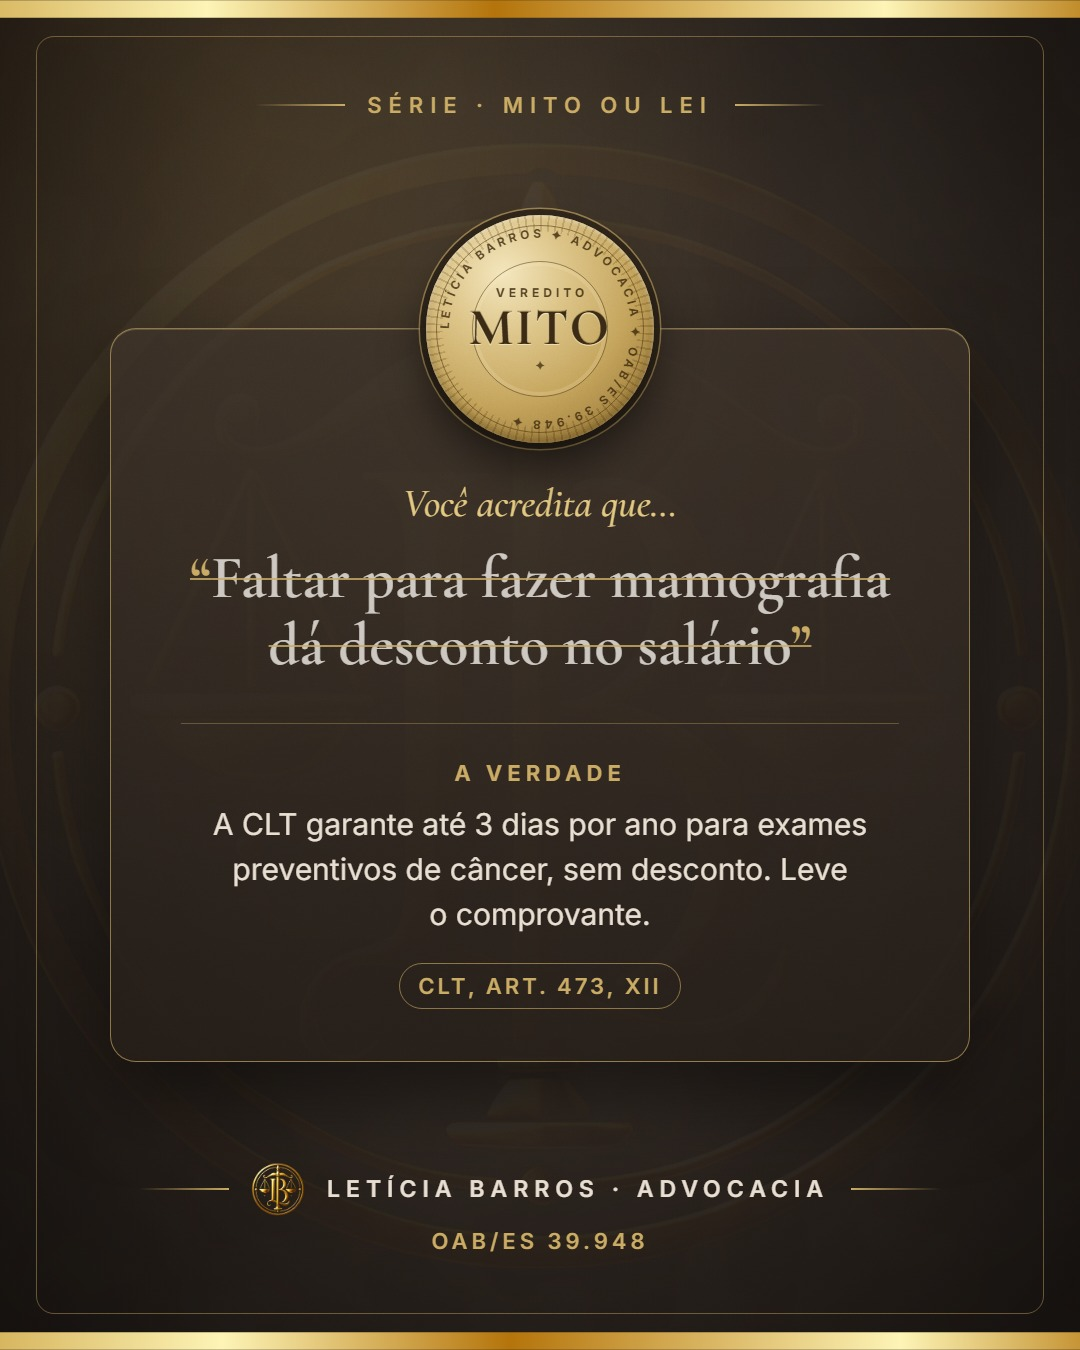
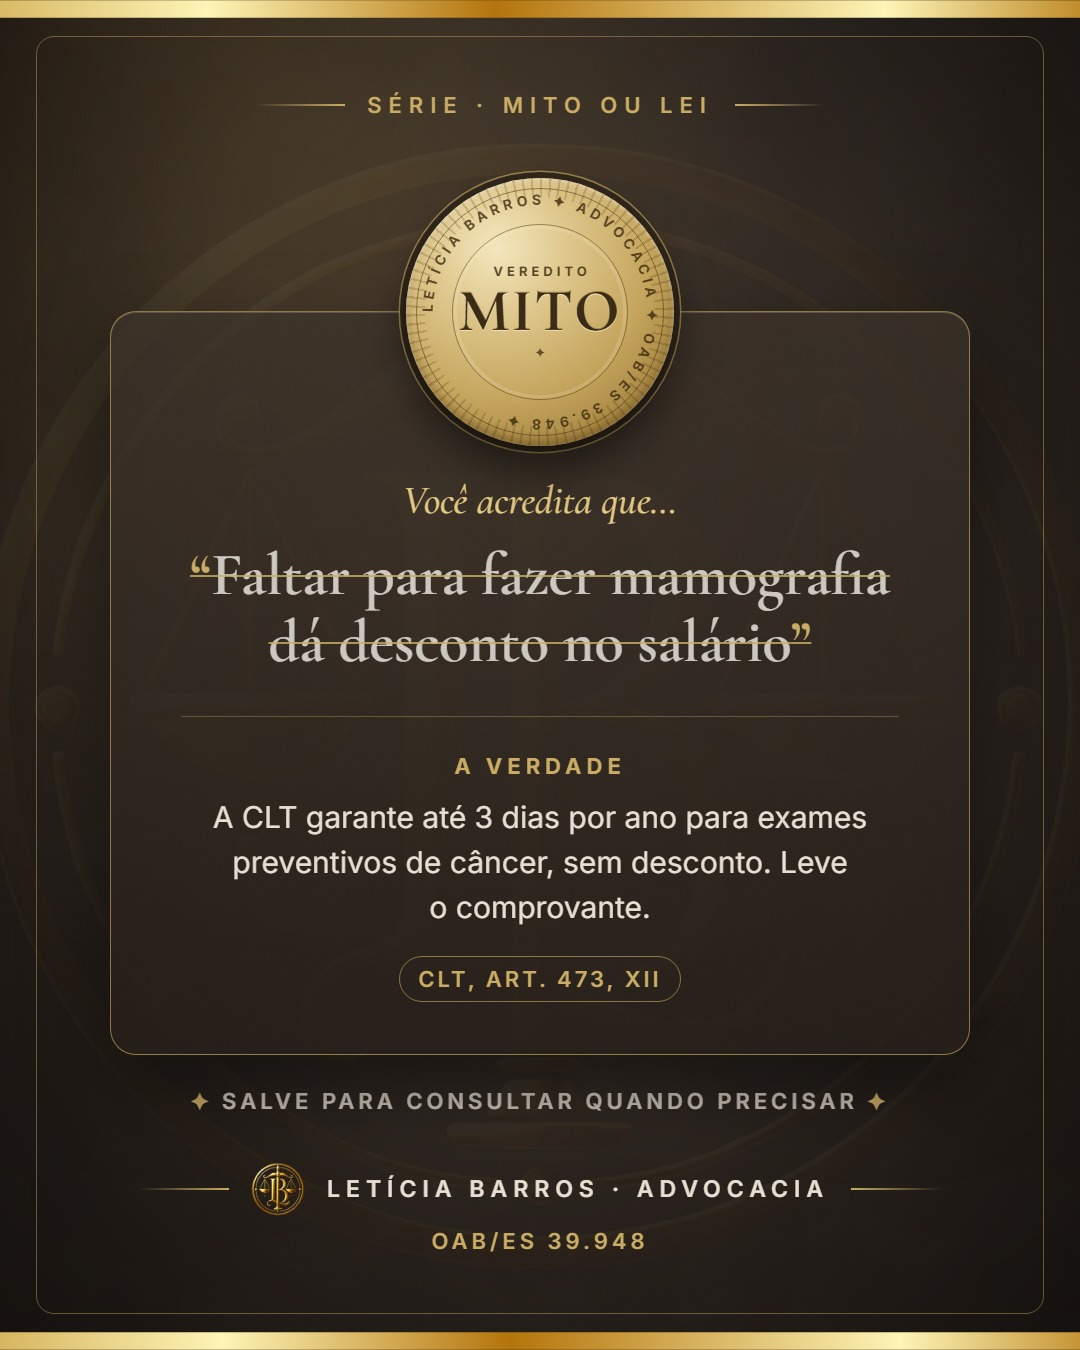
conteúdo: Mito ou Lei v3 com selo no topo do cartão nos 9 rascunhos
Escolha baseada no corte 3:4 da grade (canto seria cortado), leitura em linha reta
e meta de salvamentos: selo maior, convite para salvar, referência em uma linha.
Rascunhos no Orbit apontam para as artes v3; nada agendado.

diff --git a/apps/api/_saida_producao_1510/mito_v3.py b/apps/api/_saida_producao_1510/mito_v3.py
@@ -42,11 +42,11 @@ HTML = Template(r"""<!doctype html><html><head><meta charset="utf-8">
 .fio { width:90px; height:1.5px; background:linear-gradient(90deg, transparent, #C9A962); } .fio.d { background:linear-gradient(90deg, #C9A962, transparent); }
 
 /* palco: área útil entre o topo e a assinatura, cartão no centro óptico */
-.palco { position:absolute; left:0; right:0; top:{{ 160 if pos == 'canto' else 236 }}px; bottom:{{ 210 if pos == 'canto' else 196 }}px; display:flex; flex-direction:column; align-items:center; justify-content:center; z-index:5; }
+.palco { position:absolute; left:0; right:0; top:{{ 160 if pos == 'canto' else 262 }}px; bottom:{{ 210 if pos == 'canto' else 186 }}px; display:flex; flex-direction:column; align-items:center; justify-content:center; z-index:5; }
 .card { position:relative; width:{{ 880 if pos == 'canto' else 860 }}px; border-radius:26px;
   background: linear-gradient(180deg, rgba(58,48,40,.72) 0%, rgba(36,29,24,.78) 100%);
   border:1.5px solid #C9A9629e; box-shadow: 0 34px 80px rgba(0,0,0,.50), inset 0 1px 0 rgba(255,240,200,.18); }
-.sec1 { padding:{{ '64px 64px 44px' if pos == 'canto' else '150px 70px 44px' }}; text-align:{{ 'left' if pos == 'canto' else 'center' }}; }
+.sec1 { padding:{{ '64px 64px 44px' if pos == 'canto' else '164px 70px 40px' }}; text-align:{{ 'left' if pos == 'canto' else 'center' }}; }
 .kicker { font-family:'Cormorant Garamond',serif; font-style:italic; font-weight:500; font-size:40px; color:#E2C77F; margin-bottom:18px; }
 .af { font-family:'Cormorant Garamond',serif; font-weight:600; font-size:{{ fs }}px; line-height:1.12; color:#FAF6F0; text-wrap:balance;
   {% if pos == 'canto' %}max-width:700px;{% endif %} }
@@ -56,11 +56,12 @@ HTML = Template(r"""<!doctype html><html><head><meta charset="utf-8">
 .rot { font-size:22px; font-weight:700; letter-spacing:5px; text-transform:uppercase; color:#C9A962; margin-bottom:16px; }
 .ex { font-size:30px; line-height:1.5; color:#E8DED1; text-wrap:pretty; }
 .ref { margin-top:26px; display:inline-block; font-size:22px; font-weight:600; letter-spacing:3px; text-transform:uppercase; color:#C9A962;
-  border:1.5px solid #C9A96299; padding:9px 18px; border-radius:999px; }
+  border:1.5px solid #C9A96299; padding:9px 18px; border-radius:999px; white-space:nowrap; }
+.ref.longa { letter-spacing:1.5px; }
 
 /* selo: medalha gravada, sem brilho de moeda */
-.selo { position:absolute; width:{{ 236 if pos == 'canto' else 228 }}px; aspect-ratio:1; border-radius:50%; z-index:7;
-  {% if pos == 'canto' %}right:-46px; top:-92px; transform:rotate(-11deg);{% else %}left:50%; top:-114px; transform:translateX(-50%);{% endif %}
+.selo { position:absolute; width:{{ 236 if pos == 'canto' else 268 }}px; aspect-ratio:1; border-radius:50%; z-index:7;
+  {% if pos == 'canto' %}right:-46px; top:-92px; transform:rotate(-11deg);{% else %}left:50%; top:-134px; transform:translateX(-50%);{% endif %}
   background: radial-gradient(circle at 34% 26%, #F4E6BC 0%, #DCC385 28%, #C3A25A 58%, #9C7B3A 84%, #7A5E28 100%);
   box-shadow: 0 22px 44px rgba(0,0,0,.55), 0 0 0 6px rgba(30,24,20,.85), 0 0 0 7.5px #C9A962a6,
               inset 0 2px 4px rgba(255,248,225,.55), inset 0 -5px 10px rgba(70,48,14,.45); }
@@ -71,9 +72,11 @@ HTML = Template(r"""<!doctype html><html><head><meta charset="utf-8">
 .selo .a2 { position:absolute; inset:46px; border-radius:50%; border:1.5px solid rgba(70,48,14,.50); box-shadow: inset 0 0 0 4px rgba(255,240,200,.18); }
 .selo svg { position:absolute; inset:0; }
 .selo .miolo { position:absolute; inset:46px; display:flex; flex-direction:column; align-items:center; justify-content:center; gap:2px; }
-.selo .ver { font-size:12px; font-weight:700; letter-spacing:4px; color:rgba(58,40,14,.85); padding-left:4px; }
-.selo .palavra { font-family:'Cormorant Garamond',serif; font-weight:700; font-size:{{ 52 if veredito == 'MITO' else 64 }}px; line-height:1; letter-spacing:2px; color:#3A2A14;
+.selo .ver { font-size:{{ 12 if pos == 'canto' else 13 }}px; font-weight:700; letter-spacing:4px; color:rgba(58,40,14,.85); padding-left:4px; }
+.selo .palavra { font-family:'Cormorant Garamond',serif; font-weight:700; font-size:{{ (52 if veredito == 'MITO' else 64) if pos == 'canto' else (60 if veredito == 'MITO' else 76) }}px; line-height:1; letter-spacing:2px; color:#3A2A14;
   text-shadow: 0 1px 0 rgba(255,244,210,.6), 0 -1px 0 rgba(60,40,10,.3); }
+.salve { margin-top:30px; font-size:22px; font-weight:600; letter-spacing:4px; text-transform:uppercase; color:#E8DED1d9; }
+.salve b { color:#C9A962; font-weight:600; }
 .selo .est { font-size:13px; color:rgba(58,40,14,.75); }
 
 .ass { position:absolute; left:0; right:0; bottom:96px; display:flex; flex-direction:column; align-items:center; gap:12px; z-index:4; }
@@ -93,11 +96,16 @@ HTML = Template(r"""<!doctype html><html><head><meta charset="utf-8">
   <div class="sec1"><div class="kicker">Você acredita que…</div>
     <div class="af {{ 'mito' if veredito == 'MITO' else '' }}"><span class="aspa">“</span>{{ afirmacao }}<span class="aspa">”</span></div></div>
   <div class="sec2"><div class="rot">{{ 'A verdade' if veredito == 'MITO' else 'O que diz a lei' }}</div>
-    <div class="ex">{{ explicacao }}</div><div class="ref">{{ ref }}</div></div>
-</div></div>
+    <div class="ex">{{ explicacao }}</div><div class="ref{{ ' longa' if ref|length > 40 else '' }}">{{ ref }}</div></div>
+</div>{% if pos == 'topo' %}<div class="salve"><b>✦</b> Salve para consultar quando precisar <b>✦</b></div>{% endif %}</div>
 <div class="ass"><div class="linha-ass"><div class="fio"></div><img src="{{ logo }}"><span class="nome">Letícia Barros · Advocacia</span><div class="fio d"></div></div><span class="oab">OAB/ES 39.948</span></div>
 <div class="grao"></div>
 </div></body></html>""")
+
+
+def ref_curta(ref: str) -> str:
+    """Abrevia a referência legal para caber numa linha da pílula."""
+    return ref.replace("Código Eleitoral", "Cód. Eleitoral").replace("Resolução", "Res.")
 
 
 def tamanho_fonte(afirmacao: str) -> int:
@@ -113,7 +121,7 @@ async def main(pos: str, dias: list[str]) -> None:
         for dia, _k, af, ver, ex, ref, _tags in MITO_OU_LEI:
             if dias and dia not in dias:
                 continue
-            await page.set_content(HTML.render(afirmacao=af.rstrip("."), veredito=ver, explicacao=ex, ref=ref, pos=pos,
+            await page.set_content(HTML.render(afirmacao=af.rstrip("."), veredito=ver, explicacao=ex, ref=ref_curta(ref), pos=pos,
                                                fs=tamanho_fonte(af) + (4 if pos == 'canto' else 0), logo=logo, mancha=v4.MANCHA, grao=v4.GRAO),
                                    wait_until="networkidle")
             await page.evaluate("document.fonts.ready")

diff --git a/docs/PROCESSO_PRODUCAO_CARROSSEL.md b/docs/PROCESSO_PRODUCAO_CARROSSEL.md
@@ -83,9 +83,16 @@ Princípios aprovados depois da revisão do Mito ou Lei:
 7. Rodapé de assinatura padrão: fio dourado · logo · LETÍCIA BARROS · ADVOCACIA · fio,
    OAB abaixo. Cabeçalho em versalete com fios dourados.
 8. Acabamento fosco (granulação, vinheta, manchas suaves) e logo como marca d'água.
-9. Mito ou Lei: selo-medalhão dourado metálico (anel duplo, "VEREDITO · LETÍCIA BARROS"
-   em volta, palavra gravada); afirmação riscada em dourado (MITO) ou sublinhada (LEI).
-   Modelo: `apps/api/_saida_producao_1510/mito_v2.py`.
+9. Mito ou Lei (v3, 09/10/2026, em aprovação): afirmação e explicação juntas num cartão
+   de vidro; o selo-medalhão (medalha gravada, sem brilho de moeda, anel "LETÍCIA BARROS ✦
+   ADVOCACIA ✦ OAB/ES 39.948", "VEREDITO" + palavra no miolo) fica **encaixado no topo do
+   cartão, centralizado**. Nunca no meio entre afirmação e explicação (quebra a leitura).
+   Por que topo e não canto: a grade 3:4 do perfil corta ~34 px de cada lado da arte 4:5
+   (selo no canto sairia cortado); leitura em linha reta selo → afirmação → explicação;
+   veredito legível no tamanho do celular. MITO: fio dourado fino riscando cada linha;
+   rótulo "A VERDADE" (MITO) ou "O QUE DIZ A LEI" (LEI); referência legal em pílula de uma
+   linha (abreviar se passar de 40 caracteres); "✦ Salve para consultar quando precisar ✦"
+   abaixo do cartão (meta da série: salvamentos). Modelo: `apps/api/_saida_producao_1510/mito_v3.py topo`.
 10. Pergunta (v6, **PADRÃO APROVADO pela Letícia em 09/10/2026**, substitui a v4): **sem recortes**. Foto inteira de banco (Pexels) com UM
     único objeto ou gesto ligado ao tema, com luz real, ocupando a metade de baixo; o topo
     funde em café sólido. Cartão "Me faça uma pergunta" em vidro fosco com faixa dourada,

diff --git a/docs/PASSAGEM_DE_CONTEXTO.md b/docs/PASSAGEM_DE_CONTEXTO.md
@@ -78,7 +78,9 @@ discreta no topo, cartões de vidro flutuando. Usar isso nas próximas frentes.
 - **Agendado (ScheduledPost "pronto", Instagram, 12h)**: perguntas v6 de
   11/10 (abandono), 13/10 (férias da colega), 15, 17, 19, 21, 23, 25, 27, 29, 31/10 e 02/11.
   Também estão agendados os carrosséis/frases de 09–14/10 (programação anterior).
-- **Rascunho, aguardando ela** (NÃO agendar): carrosséis v5, frases v2 e 9 Mito ou Lei v2
+- **Rascunho, aguardando ela** (NÃO agendar): carrosséis v5, frases v2 e 9 Mito ou Lei v3 (selo no topo do cartão; prévia
+  https://api.orbit.advogadaleticiabarros.com.br/media/mito-v3-lote.jpg; backup do banco antes da troca em
+  `/root/orbit-backups/antes-mito-v3-20261009.sql.gz`)
   do lote 15/10–02/11. Ela disse: "ainda não programe os demais, ainda vamos mudar
   algumas coisas". Doc de aprovação do lote:
   https://claude.ai/code/artifact/2f39add3-ba5e-4eb5-bc0e-47fae877428d
